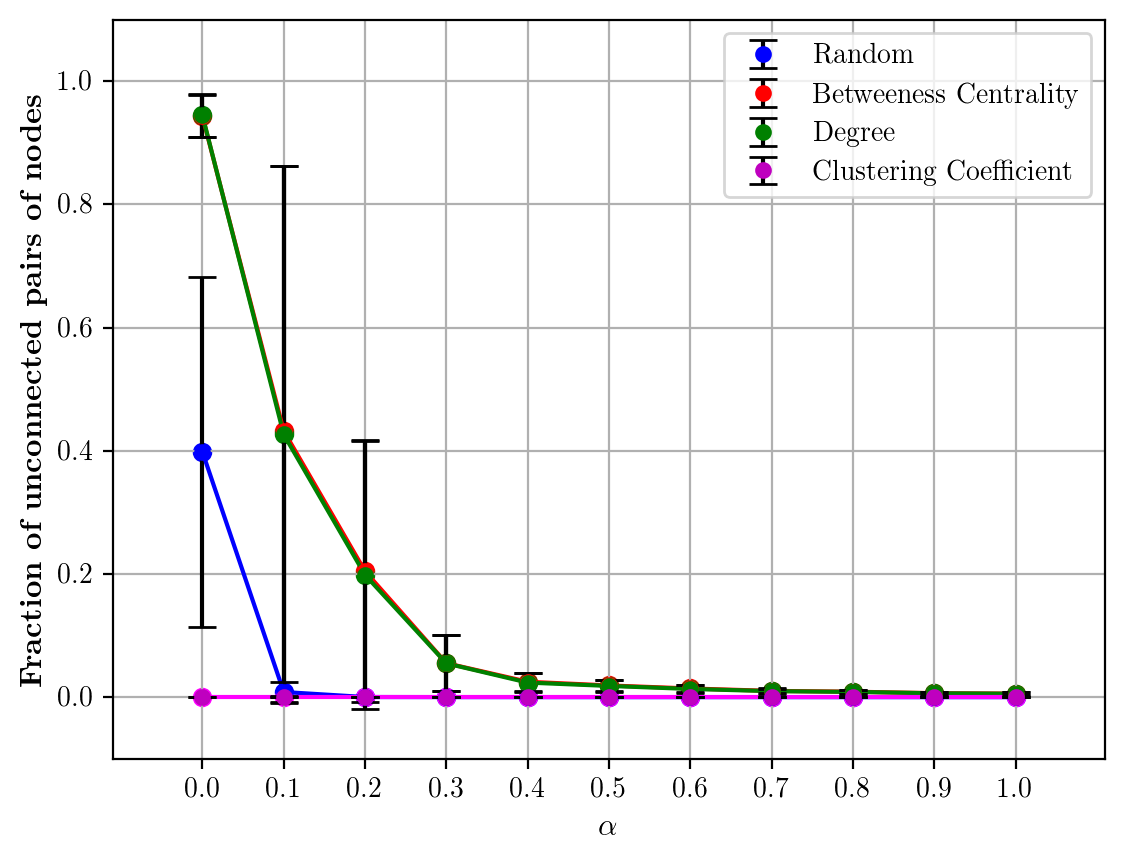
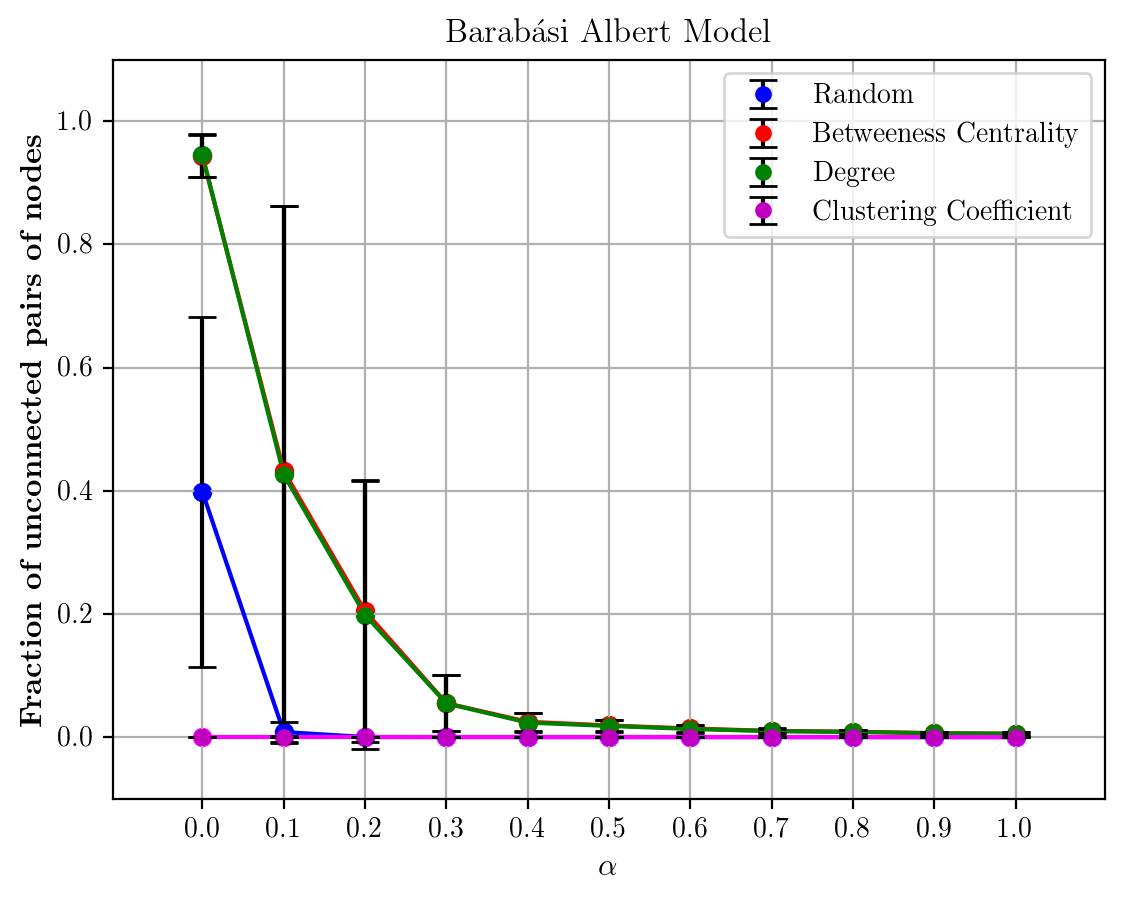
Plots with titles

diff --git a/Plots/final_n.py b/Plots/final_n.py
@@ -32,21 +32,21 @@ criteria = int(lines[3].split()[1])
 alphas = lines[4].split()[1:12]
 
 a_it = np.zeros(len(alphas), dtype=int)
-n_comp_avg_rand = np.zeros(len(alphas))
-n_comp_var_rand = np.zeros(len(alphas))
-n_comp_rand = np.zeros((len(alphas), IT*N_GRAPHS))
+n_final_avg_rand = np.zeros(len(alphas))
+n_final_var_rand = np.zeros(len(alphas))
+n_final_rand = np.zeros((len(alphas), IT*N_GRAPHS))
 
 l_it = 0
 for net in range(N_GRAPHS):
 	for a in range(len(alphas)):
 		for it in range(IT):
-			n_comp_rand[a][a_it[a]] = float(lines[7+6*l_it].split()[1])
+			n_final_rand[a][a_it[a]] = N - np.sum([int(i) for i in lines[5+6*l_it].split()[1:]])
 			l_it += 1
 			a_it[a] += 1
 
 for a in range(len(alphas)):
-	n_comp_avg_rand[a] = np.mean(n_comp_rand[a])
-	n_comp_var_rand[a] = np.var(n_comp_rand[a])
+	n_final_avg_rand[a] = np.mean(n_final_rand[a])
+	n_final_var_rand[a] = np.var(n_final_rand[a])
 
 file = "data_1.txt"
 
@@ -60,21 +60,21 @@ criteria = int(lines[3].split()[1])
 alphas = lines[4].split()[1:12]
 
 a_it = np.zeros(len(alphas), dtype=int)
-n_comp_avg_bc = np.zeros(len(alphas))
-n_comp_var_bc = np.zeros(len(alphas))
-n_comp_bc = np.zeros((len(alphas), IT*N_GRAPHS))
+n_final_avg_bc = np.zeros(len(alphas))
+n_final_var_bc = np.zeros(len(alphas))
+n_final_bc = np.zeros((len(alphas), IT*N_GRAPHS))
 
 l_it = 0
 for net in range(N_GRAPHS):
 	for a in range(len(alphas)):
 		for it in range(IT):
-			n_comp_bc[a][a_it[a]] = float(lines[7+6*l_it].split()[1])
+			n_final_bc[a][a_it[a]] = N - np.sum([int(i) for i in lines[5+6*l_it].split()[1:]])
 			l_it += 1
 			a_it[a] += 1
 
 for a in range(len(alphas)):
-	n_comp_avg_bc[a] = np.mean(n_comp_bc[a])
-	n_comp_var_bc[a] = np.var(n_comp_bc[a])
+	n_final_avg_bc[a] = np.mean(n_final_bc[a])
+	n_final_var_bc[a] = np.var(n_final_bc[a])
 
 file = "data_2.txt"
 
@@ -88,21 +88,21 @@ criteria = int(lines[3].split()[1])
 alphas = lines[4].split()[1:12]
 
 a_it = np.zeros(len(alphas), dtype=int)
-n_comp_avg_dg = np.zeros(len(alphas))
-n_comp_var_dg = np.zeros(len(alphas))
-n_comp_dg = np.zeros((len(alphas), IT*N_GRAPHS))
+n_final_avg_dg = np.zeros(len(alphas))
+n_final_var_dg = np.zeros(len(alphas))
+n_final_dg = np.zeros((len(alphas), IT*N_GRAPHS))
 
 l_it = 0
 for net in range(N_GRAPHS):
 	for a in range(len(alphas)):
 		for it in range(IT):
-			n_comp_dg[a][a_it[a]] = float(lines[7+6*l_it].split()[1])
+			n_final_dg[a][a_it[a]] = N - np.sum([int(i) for i in lines[5+6*l_it].split()[1:]])
 			l_it += 1
 			a_it[a] += 1
 
 for a in range(len(alphas)):
-	n_comp_avg_dg[a] = np.mean(n_comp_dg[a])
-	n_comp_var_dg[a] = np.var(n_comp_dg[a])
+	n_final_avg_dg[a] = np.mean(n_final_dg[a])
+	n_final_var_dg[a] = np.var(n_final_dg[a])
 
 file = "data_3.txt"
 
@@ -116,41 +116,41 @@ criteria = int(lines[3].split()[1])
 alphas = lines[4].split()[1:12]
 
 a_it = np.zeros(len(alphas), dtype=int)
-n_comp_avg_cl = np.zeros(len(alphas))
-n_comp_var_cl = np.zeros(len(alphas))
-n_comp_cl = np.zeros((len(alphas), IT*N_GRAPHS))
+n_final_avg_cl = np.zeros(len(alphas))
+n_final_var_cl = np.zeros(len(alphas))
+n_final_cl = np.zeros((len(alphas), IT*N_GRAPHS))
 
 l_it = 0
 for net in range(N_GRAPHS):
 	for a in range(len(alphas)):
 		for it in range(IT):
-			n_comp_cl[a][a_it[a]] = float(lines[7+6*l_it].split()[1])
+			n_final_cl[a][a_it[a]] = N - np.sum([int(i) for i in lines[5+6*l_it].split()[1:]])
 			l_it += 1
 			a_it[a] += 1
 
 for a in range(len(alphas)):
-	n_comp_avg_cl[a] = np.mean(n_comp_cl[a])
-	n_comp_var_cl[a] = np.var(n_comp_cl[a])
+	n_final_avg_cl[a] = np.mean(n_final_cl[a])
+	n_final_var_cl[a] = np.var(n_final_cl[a])
 
 f1 = plt.figure()
 
 plt.rc('text', usetex=True)
 plt.rc('font', family='serif')
 
-plt.scatter(alphas, n_comp_avg_rand, color="blue")
-plt.scatter(alphas, n_comp_avg_bc, color="red")
-plt.scatter(alphas, n_comp_avg_dg, color="green")
-plt.scatter(alphas, n_comp_avg_cl, color="magenta")
+plt.scatter(alphas, n_final_avg_rand, color="blue")
+plt.scatter(alphas, n_final_avg_bc, color="red")
+plt.scatter(alphas, n_final_avg_dg, color="green")
+plt.scatter(alphas, n_final_avg_cl, color="magenta")
 
-plt.plot(alphas, n_comp_avg_rand, color="blue")
-plt.plot(alphas, n_comp_avg_bc, color="red")
-plt.plot(alphas, n_comp_avg_dg, color="green")
-plt.plot(alphas, n_comp_avg_cl, color="magenta")
+plt.plot(alphas, n_final_avg_rand, color="blue")
+plt.plot(alphas, n_final_avg_bc, color="red")
+plt.plot(alphas, n_final_avg_dg, color="green")
+plt.plot(alphas, n_final_avg_cl, color="magenta")
 
-plt.errorbar(alphas, n_comp_avg_rand, np.sqrt(n_comp_var_rand), fmt='bo', markersize=5, capsize=5, ecolor="black", label="Random")
-plt.errorbar(alphas, n_comp_avg_bc, np.sqrt(n_comp_var_bc), fmt='ro', markersize=5, capsize=5, ecolor="black", label="Betweeness Centrality")
-plt.errorbar(alphas, n_comp_avg_dg, np.sqrt(n_comp_var_dg), fmt='go', markersize=5, capsize=5, ecolor="black", label="Degree")
-plt.errorbar(alphas, n_comp_avg_cl, np.sqrt(n_comp_var_cl), fmt='mo', markersize=5, capsize=5, ecolor="black", label="Clustering Coefficient")
+plt.errorbar(alphas, n_final_avg_rand, np.sqrt(n_final_var_rand), fmt='bo', markersize=5, capsize=5, ecolor="black", label="Random")
+plt.errorbar(alphas, n_final_avg_bc, np.sqrt(n_final_var_bc), fmt='ro', markersize=5, capsize=5, ecolor="black", label="Betweeness Centrality")
+plt.errorbar(alphas, n_final_avg_dg, np.sqrt(n_final_var_dg), fmt='go', markersize=5, capsize=5, ecolor="black", label="Degree")
+plt.errorbar(alphas, n_final_avg_cl, np.sqrt(n_final_var_cl), fmt='mo', markersize=5, capsize=5, ecolor="black", label="Clustering Coefficient")
 
 # plt.xlim((-1.1, 11.1))
 # plt.ylim((-0.1, 1.1))
@@ -159,14 +159,14 @@ if int(input_int) == int(0):
 	plt.title('Barabási Albert Model')
 else:
 	plt.title('DMS Minimal Model')
-	
+
 plt.grid()
 plt.legend()
 plt.xlabel(r'\textbf{$\alpha$}', fontsize=11)
-plt.ylabel(r'\textbf{Final number of components in the network}', fontsize=11)
+plt.ylabel(r'\textbf{Final N}', fontsize=11)
 
 plt.show()
 
-fig_name = "Plots/figures/n_comp_%i.png" % int(input_int)
+fig_name = "Plots/figures/n_final_%i.png" % int(input_int)
 
 f1.savefig(fig_name, bbox_inches='tight')

diff --git a/Plots/node_deletion.py b/Plots/node_deletion.py
@@ -85,6 +85,11 @@ plt.fill_between(x, avg_del[2]-std_del[2], avg_del[2]+std_del[2], color="red", a
 
 plt.fill_between(x, min_del[2], max_del[2], color="blue", alpha=0.1, label='Maximum and Minimum')
 
+if model == 0:
+	plt.title('Barabási Albert Model')
+else:
+	plt.title('DMS Minimal Model')
+
 plt.yscale('log')
 plt.grid()
 plt.legend()

diff --git a/Plots/apl_nodes.py b/Plots/apl_nodes.py
@@ -159,6 +159,11 @@ plt.errorbar(alphas, unc_pairs_avg_cl, np.sqrt(unc_pairs_var_cl), fmt='mo', mark
 plt.xlim((-1.1, 11.1))
 plt.ylim((-0.1, 1.1))
 
+if int(input_int) == int(0):
+	plt.title('Barabási Albert Model')
+else:
+	plt.title('DMS Minimal Model')
+	
 plt.grid()
 plt.legend()
 plt.xlabel(r'\textbf{$\alpha$}', fontsize=11)

diff --git a/Plots/giant_c_nodes.py b/Plots/giant_c_nodes.py
@@ -163,6 +163,11 @@ plt.errorbar(alphas, giant_c_avg_cl, np.sqrt(giant_c_var_cl), fmt='mo', markersi
 plt.xlim((-1.1, 11.1))
 plt.ylim((-0.1, 1.1))
 
+if int(input_int) == int(0):
+	plt.title('Barabási Albert Model')
+else:
+	plt.title('DMS Minimal Model')
+	
 plt.grid()
 plt.legend()
 plt.xlabel(r'\textbf{$\alpha$}', fontsize=11)
